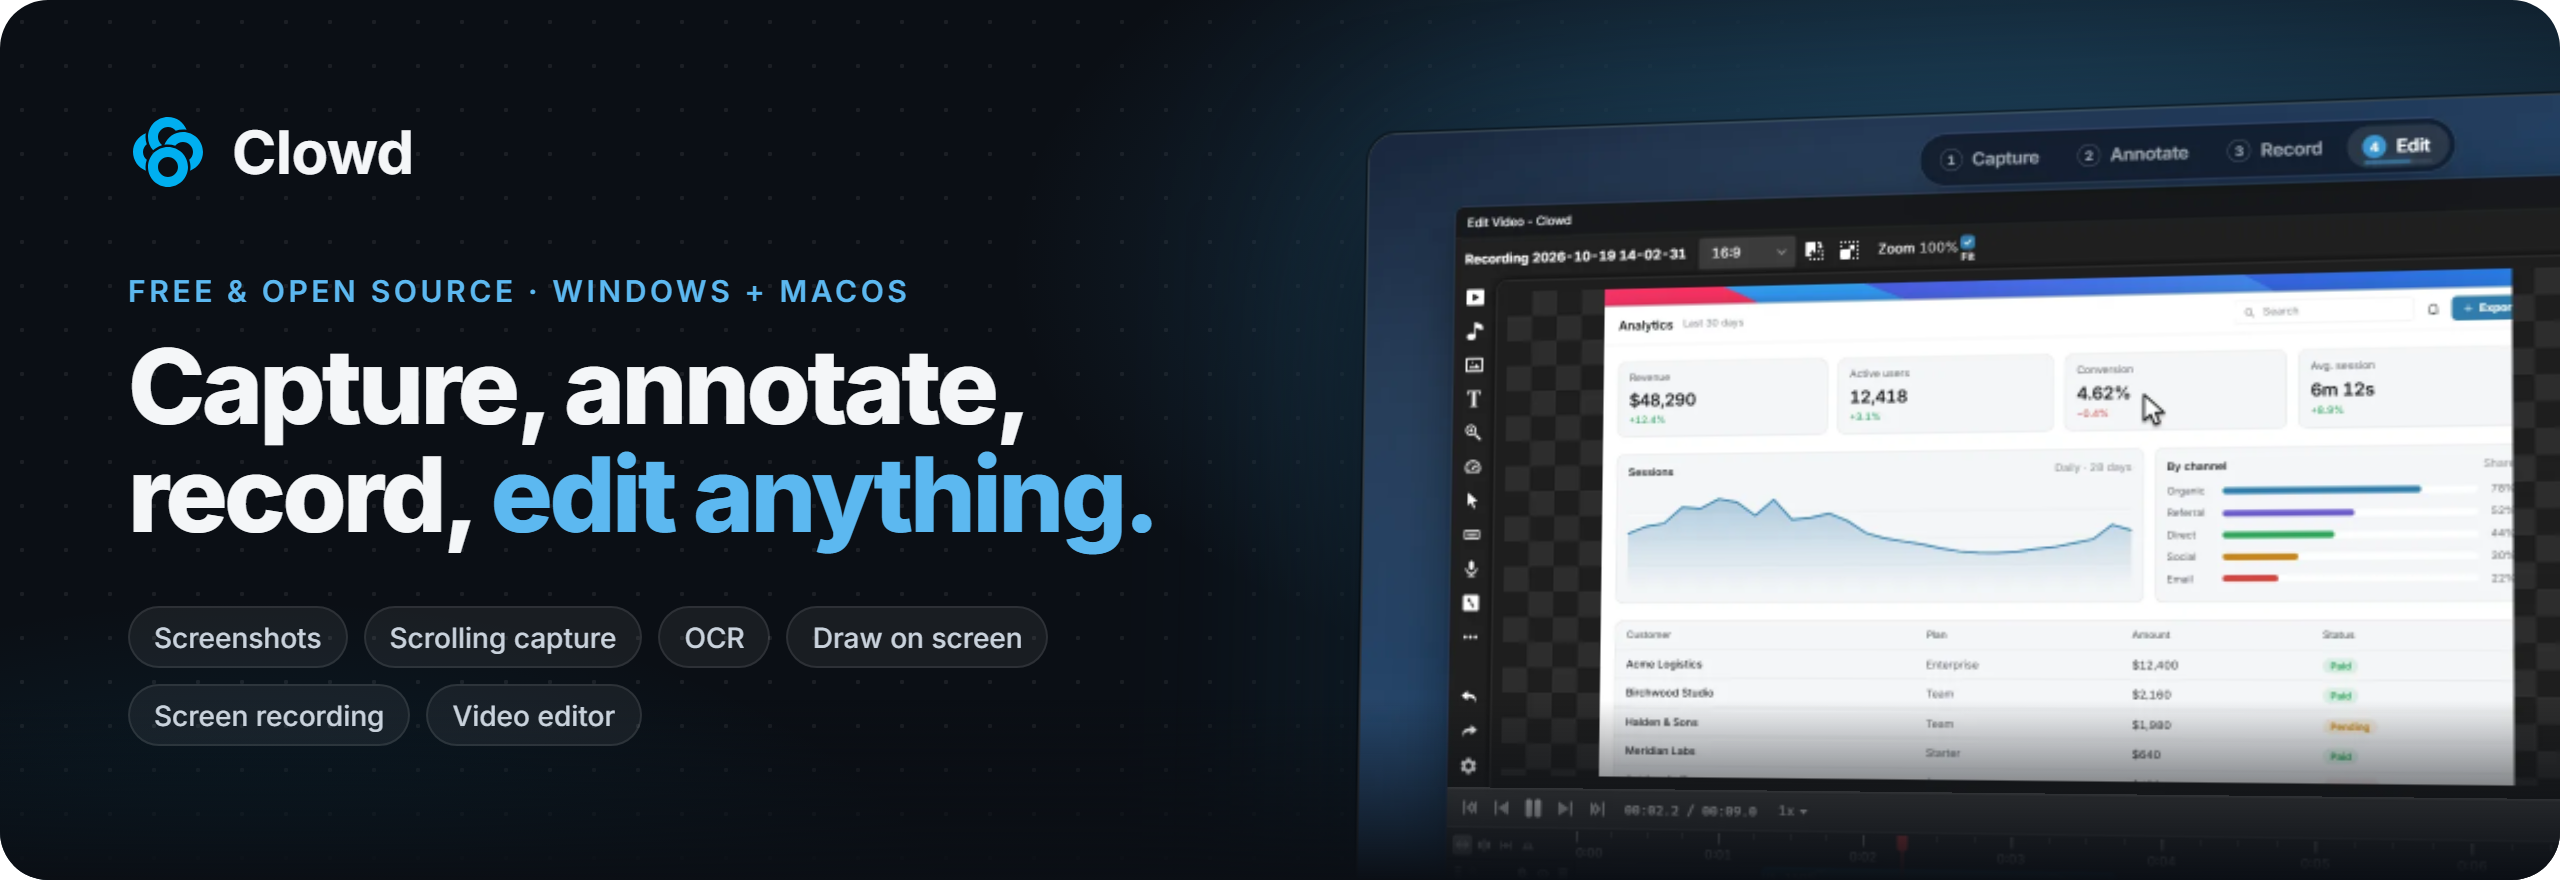
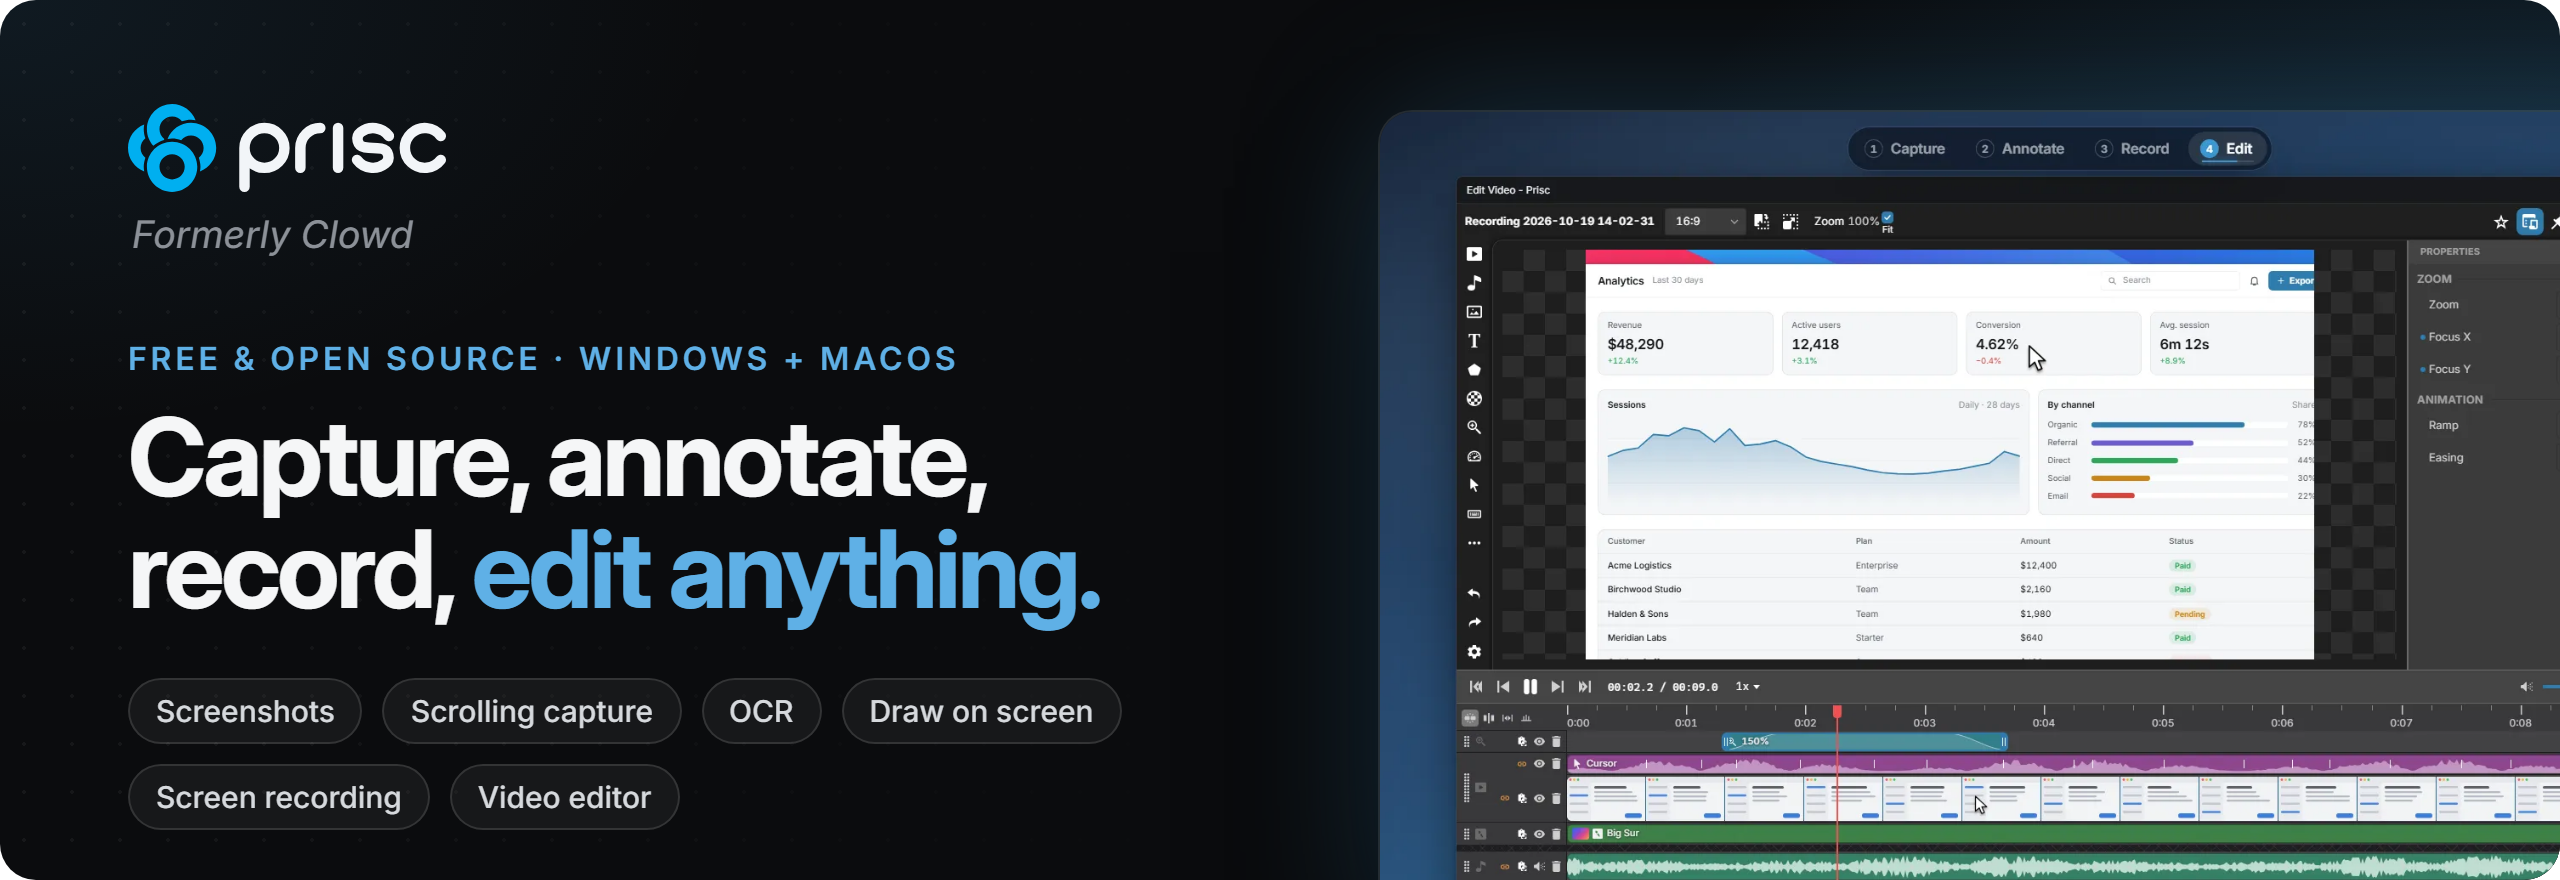
Rename to Prisc in the README

diff --git a/README.md b/README.md
@@ -1,12 +1,12 @@
 <p align="center">
-  <a href="https://clowd.studio"><img src="assets/readme/banner.png" alt="Clowd: capture, annotate, record and edit anything. Free and open source for Windows and macOS." width="100%"></a>
+  <a href="https://prisc.app"><img src="assets/readme/banner.png" alt="Prisc, formerly Clowd: capture, annotate, record and edit anything. Free and open source for Windows and macOS." width="100%"></a>
 </p>
 
 <p align="center">
-  <a href="https://clowd.studio/download"><img src="https://img.shields.io/badge/Download-Windows%20%7C%20macOS-3B97D2?style=for-the-badge" alt="Download for Windows and macOS"></a>
-  <a href="https://clowd.studio"><img src="https://img.shields.io/badge/Website-clowd.studio-0b0f15?style=for-the-badge" alt="clowd.studio"></a>
+  <a href="https://prisc.app/download"><img src="https://img.shields.io/badge/Download-Windows%20%7C%20macOS-3B97D2?style=for-the-badge" alt="Download for Windows and macOS"></a>
+  <a href="https://prisc.app"><img src="https://img.shields.io/badge/Website-prisc.app-0b0f15?style=for-the-badge" alt="prisc.app"></a>
   <a href="LICENSE"><img src="https://img.shields.io/badge/License-MIT-2ea043?style=for-the-badge" alt="MIT license"></a>
-  <a href="https://github.com/clowd/Clowd/actions"><img src="https://img.shields.io/github/actions/workflow/status/clowd/Clowd/ci.yml?branch=v4-rewrite&style=for-the-badge&label=Build" alt="Build status"></a>
+  <a href="https://github.com/priscapp/Prisc/actions"><img src="https://img.shields.io/github/actions/workflow/status/priscapp/Prisc/ci.yml?branch=master&style=for-the-badge&label=Build" alt="Build status"></a>
 </p>
 
 <h3 align="center">Capture, annotate, record and edit anything, all in one app.</h3>
@@ -16,6 +16,9 @@
   It lives in your tray, wakes up when you press <kbd>PrtScn</kbd>, and gets out of your way the moment you're done.<br>
   <b>Free and open source. No account, no trial, no watermark.</b>
 </p>
+
+> [!NOTE]
+> **Clowd is now Prisc.** Same app, new name. Existing Clowd installs keep updating automatically, and your settings and captures stay where they are.
 
 https://github.com/user-attachments/assets/9aa1b37f-cd94-4b0a-ac25-0c002d3c4f4a
 
@@ -43,10 +46,10 @@ Capture it, annotate it, record it, edit it, share it. Every feature is a switch
 
 | Platform | Installer | Portable |
 | --- | --- | --- |
-| Windows x64 | [Clowd-win-x64-Setup.exe](https://github.com/clowd/Clowd/releases/latest/download/Clowd-win-x64-Setup.exe) | [Clowd-win-x64-Portable.zip](https://github.com/clowd/Clowd/releases/latest/download/Clowd-win-x64-Portable.zip) |
-| Windows arm64 | [Clowd-win-arm64-Setup.exe](https://github.com/clowd/Clowd/releases/latest/download/Clowd-win-arm64-Setup.exe) | [Clowd-win-arm64-Portable.zip](https://github.com/clowd/Clowd/releases/latest/download/Clowd-win-arm64-Portable.zip) |
-| macOS Apple Silicon | [Clowd-osx-arm64-Setup.pkg](https://github.com/clowd/Clowd/releases/latest/download/Clowd-osx-arm64-Setup.pkg) | [Clowd-osx-arm64-Portable.zip](https://github.com/clowd/Clowd/releases/latest/download/Clowd-osx-arm64-Portable.zip) |
-| macOS Intel | [Clowd-osx-x64-Setup.pkg](https://github.com/clowd/Clowd/releases/latest/download/Clowd-osx-x64-Setup.pkg) | [Clowd-osx-x64-Portable.zip](https://github.com/clowd/Clowd/releases/latest/download/Clowd-osx-x64-Portable.zip) |
+| Windows x64 | [Clowd-win-x64-Setup.exe](https://github.com/priscapp/Prisc/releases/latest/download/Clowd-win-x64-Setup.exe) | [Clowd-win-x64-Portable.zip](https://github.com/priscapp/Prisc/releases/latest/download/Clowd-win-x64-Portable.zip) |
+| Windows arm64 | [Clowd-win-arm64-Setup.exe](https://github.com/priscapp/Prisc/releases/latest/download/Clowd-win-arm64-Setup.exe) | [Clowd-win-arm64-Portable.zip](https://github.com/priscapp/Prisc/releases/latest/download/Clowd-win-arm64-Portable.zip) |
+| macOS Apple Silicon | [Clowd-osx-arm64-Setup.pkg](https://github.com/priscapp/Prisc/releases/latest/download/Clowd-osx-arm64-Setup.pkg) | [Clowd-osx-arm64-Portable.zip](https://github.com/priscapp/Prisc/releases/latest/download/Clowd-osx-arm64-Portable.zip) |
+| macOS Intel | [Clowd-osx-x64-Setup.pkg](https://github.com/priscapp/Prisc/releases/latest/download/Clowd-osx-x64-Setup.pkg) | [Clowd-osx-x64-Portable.zip](https://github.com/priscapp/Prisc/releases/latest/download/Clowd-osx-x64-Portable.zip) |
 
 Requires Windows 10+ or macOS 13+.
 
@@ -56,7 +59,7 @@ Requires Windows 10+ or macOS 13+.
 
 **A real timeline, not a trimmer.** Zoom in where attention should land, skip the waiting, restyle the cursor and drop it on a polished background. From raw recording to share-ready.
 
-<p align="center"><a href="https://clowd.studio/features/video-editor"><img src="assets/readme/video-editor.webp" alt="The video editor plays a recording through a 1.5× zoom and a 2× speed stretch" width="720"></a></p>
+<p align="center"><a href="https://prisc.app/features/video-editor"><img src="assets/readme/video-editor.webp" alt="The video editor plays a recording through a 1.5× zoom and a 2× speed stretch" width="720"></a></p>
 
 - **Zoom and speed.** Zoom in where it matters, and skip the boring parts at up to 10×.
 - **Restyle it after you record.** Cursor packs, click effects and live keystroke overlays, all changeable later.
@@ -66,7 +69,7 @@ Requires Windows 10+ or macOS 13+.
 
 <sub>AI effects need Windows or a Mac with Apple Silicon.</sub>
 
-**[Learn more about the video editor →](https://clowd.studio/features/video-editor)**
+**[Learn more about the video editor →](https://prisc.app/features/video-editor)**
 
 ---
 
@@ -74,14 +77,14 @@ Requires Windows 10+ or macOS 13+.
 
 **Record once, decide later.** Screen, webcam, microphone and system audio each land on their own track, so nothing is baked in until you say so.
 
-<p align="center"><a href="https://clowd.studio/features/screen-recording"><img src="assets/readme/screen-recording.webp" alt="The recording toolbar under a framed window: Start, the timer runs, the meters move" width="720"></a></p>
+<p align="center"><a href="https://prisc.app/features/screen-recording"><img src="assets/readme/screen-recording.webp" alt="The recording toolbar under a framed window: Start, the timer runs, the meters move" width="720"></a></p>
 
 - **Separate tracks.** Screen, webcam, mic and system audio, each on its own row in the editor.
 - **Cursor you can restyle.** The cursor, clicks and keystrokes are recorded as data, so you can change them after you stop.
 - **Up to 240 fps.** Smooth enough for fast-moving demos, with a live frame counter as you record.
 - **Crash-safe.** Hardware encoding when your GPU has it, and a power cut doesn't cost you the recording.
 
-**[Learn more about screen recording →](https://clowd.studio/features/screen-recording)**
+**[Learn more about screen recording →](https://prisc.app/features/screen-recording)**
 
 ---
 
@@ -89,7 +92,7 @@ Requires Windows 10+ or macOS 13+.
 
 **Draw on anything, then click straight through to your apps.** Walkthroughs, onboarding and code reviews that feel like you're sitting next to them.
 
-<p align="center"><a href="https://clowd.studio/features/draw-on-screen"><img src="assets/readme/draw-on-screen.webp" alt="Draw on Screen: a brush loop, an arrow and numbered badges over a form, then click-through" width="720"></a></p>
+<p align="center"><a href="https://prisc.app/features/draw-on-screen"><img src="assets/readme/draw-on-screen.webp" alt="Draw on Screen: a brush loop, an arrow and numbered badges over a form, then click-through" width="720"></a></p>
 
 - **Draw, then <kbd>Esc</kbd>.** Your ink stays on screen while you click, scroll and type underneath it.
 - **Live keystrokes.** Every shortcut you press shows up on screen, so nobody has to ask what you just did.
@@ -97,15 +100,15 @@ Requires Windows 10+ or macOS 13+.
 - **Freeze the frame or keep it live.** Draw on a still, or right over a playing video.
 - **One undo for every screen.** Undo works across all your monitors, in the order you drew.
 
-**[Learn more about Draw on Screen →](https://clowd.studio/features/draw-on-screen)**
+**[Learn more about Draw on Screen →](https://prisc.app/features/draw-on-screen)**
 
 ---
 
 ## Screenshots
 
-**Press <kbd>PrtScn</kbd>. It's already there.** Snap to a whole window in one click, or zoom in and crop to the exact pixel. Then take it anywhere in Clowd with a single key.
+**Press <kbd>PrtScn</kbd>. It's already there.** Snap to a whole window in one click, or zoom in and crop to the exact pixel. Then take it anywhere in Prisc with a single key.
 
-<p align="center"><a href="https://clowd.studio/features/capture"><img src="assets/readme/capture.webp" alt="PrtScn freezes the screen, the selection snaps to a window, Copy" width="720"></a></p>
+<p align="center"><a href="https://prisc.app/features/capture"><img src="assets/readme/capture.webp" alt="PrtScn freezes the screen, the selection snaps to a window, Copy" width="720"></a></p>
 
 - **Opens instantly.** The screen is frozen and ready the moment you press the key.
 - **Click a window, get the window.** Even one that's partly hidden behind another, with its rounded corners kept transparent.
@@ -114,7 +117,7 @@ Requires Windows 10+ or macOS 13+.
 - **Built-in color picker.** Press <kbd>H</kbd> on any pixel for its HEX, RGB or HSL.
 - **Owns <kbd>PrtScn</kbd>,** even on Windows 11.
 
-**[Learn more about the capture overlay →](https://clowd.studio/features/capture)**
+**[Learn more about the capture overlay →](https://prisc.app/features/capture)**
 
 ---
 
@@ -122,7 +125,7 @@ Requires Windows 10+ or macOS 13+.
 
 **Copy text from anything on screen.** Screenshots, videos, error dialogs: anywhere you can't normally select text.
 
-<p align="center"><a href="https://clowd.studio/features/ocr"><img src="assets/readme/ocr.webp" alt="Text recognition lifts every line of an error dialog off the screen" width="720"></a></p>
+<p align="center"><a href="https://prisc.app/features/ocr"><img src="assets/readme/ocr.webp" alt="Text recognition lifts every line of an error dialog off the screen" width="720"></a></p>
 
 - **Private.** Text is read on your computer. No cloud, no API key, no language pack to install.
 - **Check it first.** Every line lifts off the screenshot, so you see what it read before you use it.
@@ -131,15 +134,15 @@ Requires Windows 10+ or macOS 13+.
 
 <sub>Requires Windows or a Mac with Apple Silicon. Latin, Greek, Chinese and Japanese kana; Cyrillic and Korean aren't supported yet.</sub>
 
-**[Learn more about OCR →](https://clowd.studio/features/ocr)**
+**[Learn more about OCR →](https://prisc.app/features/ocr)**
 
 ---
 
 ## Scrolling capture
 
-**The whole page, not just the part that fits.** A long article, a chat history, a settings page: Clowd scrolls it for you and stitches it into one tall image.
+**The whole page, not just the part that fits.** A long article, a chat history, a settings page: Prisc scrolls it for you and stitches it into one tall image.
 
-<p align="center"><a href="https://clowd.studio/features/scrolling-capture"><img src="assets/readme/scrolling-capture.webp" alt="Scrolling capture steps down a page while the stitched image grows" width="720"></a></p>
+<p align="center"><a href="https://prisc.app/features/scrolling-capture"><img src="assets/readme/scrolling-capture.webp" alt="Scrolling capture steps down a page while the stitched image grows" width="720"></a></p>
 
 - **Sticky headers appear once,** not repeated down the length of the image.
 - **Starts from the top.** It winds the page back first, so it doesn't matter where you were scrolled to.
@@ -148,7 +151,7 @@ Requires Windows 10+ or macOS 13+.
 
 <sub>Scrolls whole windows, not panes inside them. Needs Accessibility permission on macOS.</sub>
 
-**[Learn more about scrolling capture →](https://clowd.studio/features/scrolling-capture)**
+**[Learn more about scrolling capture →](https://prisc.app/features/scrolling-capture)**
 
 ---
 
@@ -156,29 +159,29 @@ Requires Windows 10+ or macOS 13+.
 
 **Mark it up. Send it. Move on.** Curved arrows, numbered steps that point, and redaction that never blurs your notes. One key per tool.
 
-<p align="center"><a href="https://clowd.studio/features/image-editor"><img src="assets/readme/image-editor.webp" alt="The image editor: an arrow bent into a curve, numbered steps, a mosaic and a text card" width="720"></a></p>
+<p align="center"><a href="https://prisc.app/features/image-editor"><img src="assets/readme/image-editor.webp" alt="The image editor: an arrow bent into a curve, numbered steps, a mosaic and a text card" width="720"></a></p>
 
 - **15 tools, one key each.** <kbd>R</kbd> for a rectangle, <kbd>A</kbd> for an arrow, <kbd>O</kbd> to hide a password.
 - **Objects stay editable.** Move, restyle or delete anything you drew, at any point.
 - **Sessions autosave.** Restart your PC and your open editors come back, annotations intact.
 - **Pin it on top** so a capture stays visible while you work.
 
-**[Learn more about the image editor →](https://clowd.studio/features/image-editor)**
+**[Learn more about the image editor →](https://prisc.app/features/image-editor)**
 
 ---
 
 ## Share region
 
-**Share any rectangle, in any meeting app.** Meeting apps share a whole screen or one window. Clowd lets you share exactly the part that matters, in Teams, Zoom, Meet or anything else.
+**Share any rectangle, in any meeting app.** Meeting apps share a whole screen or one window. Prisc lets you share exactly the part that matters, in Teams, Zoom, Meet or anything else.
 
-<p align="center"><a href="https://clowd.studio/features/share-region"><img src="assets/readme/share-region.webp" alt="Share Region: Hide blurs what the meeting sees while the presenter's screen stays clear" width="720"></a></p>
+<p align="center"><a href="https://prisc.app/features/share-region"><img src="assets/readme/share-region.webp" alt="Share Region: Hide blurs what the meeting sees while the presenter's screen stays clear" width="720"></a></p>
 
 - **A panic button.** Blur or black out the share without stopping it.
 - **Move it mid-meeting.** Reframe the region and nobody has to re-share.
 - **Every control outside the frame,** so the meeting never sees them.
 - **Point at things.** Draw on screen and the meeting sees it.
 
-**[Learn more about Share Region →](https://clowd.studio/features/share-region)**
+**[Learn more about Share Region →](https://prisc.app/features/share-region)**
 
 ---
 
@@ -186,11 +189,11 @@ Requires Windows 10+ or macOS 13+.
 
 **Your storage, your rules.** Share a screenshot, a recording or a whole folder, and the link is on your clipboard before the upload has finished.
 
-<p align="center"><a href="https://clowd.studio/features/upload-share"><img src="assets/readme/upload-share.webp" alt="A capture is copied, then Upload Clipboard from the tray: the link is copied at once while the recipient's browser streams it" width="720"></a></p>
+<p align="center"><a href="https://prisc.app/features/upload-share"><img src="assets/readme/upload-share.webp" alt="A capture is copied, then Upload Clipboard from the tray: the link is copied at once while the recipient's browser streams it" width="720"></a></p>
 
 - **Instant links.** With accelerated uploads, the link is copied the moment the upload *starts*, and recipients can start watching while you're still uploading.
 - **Your bucket, your keys.** Amazon S3 (and S3-compatible), Azure Blob Storage, Cloudflare R2 and Backblaze B2.
 - **Nothing kept on the way.** Accelerated uploads only pass through. Or switch them off and upload direct.
 - **Off until you want it.** One switch turns uploads off and every upload button disappears.
 
-**[Learn more about Upload & Share →](https://clowd.studio/features/upload-share)**
+**[Learn more about Upload & Share →](https://prisc.app/features/upload-share)**
